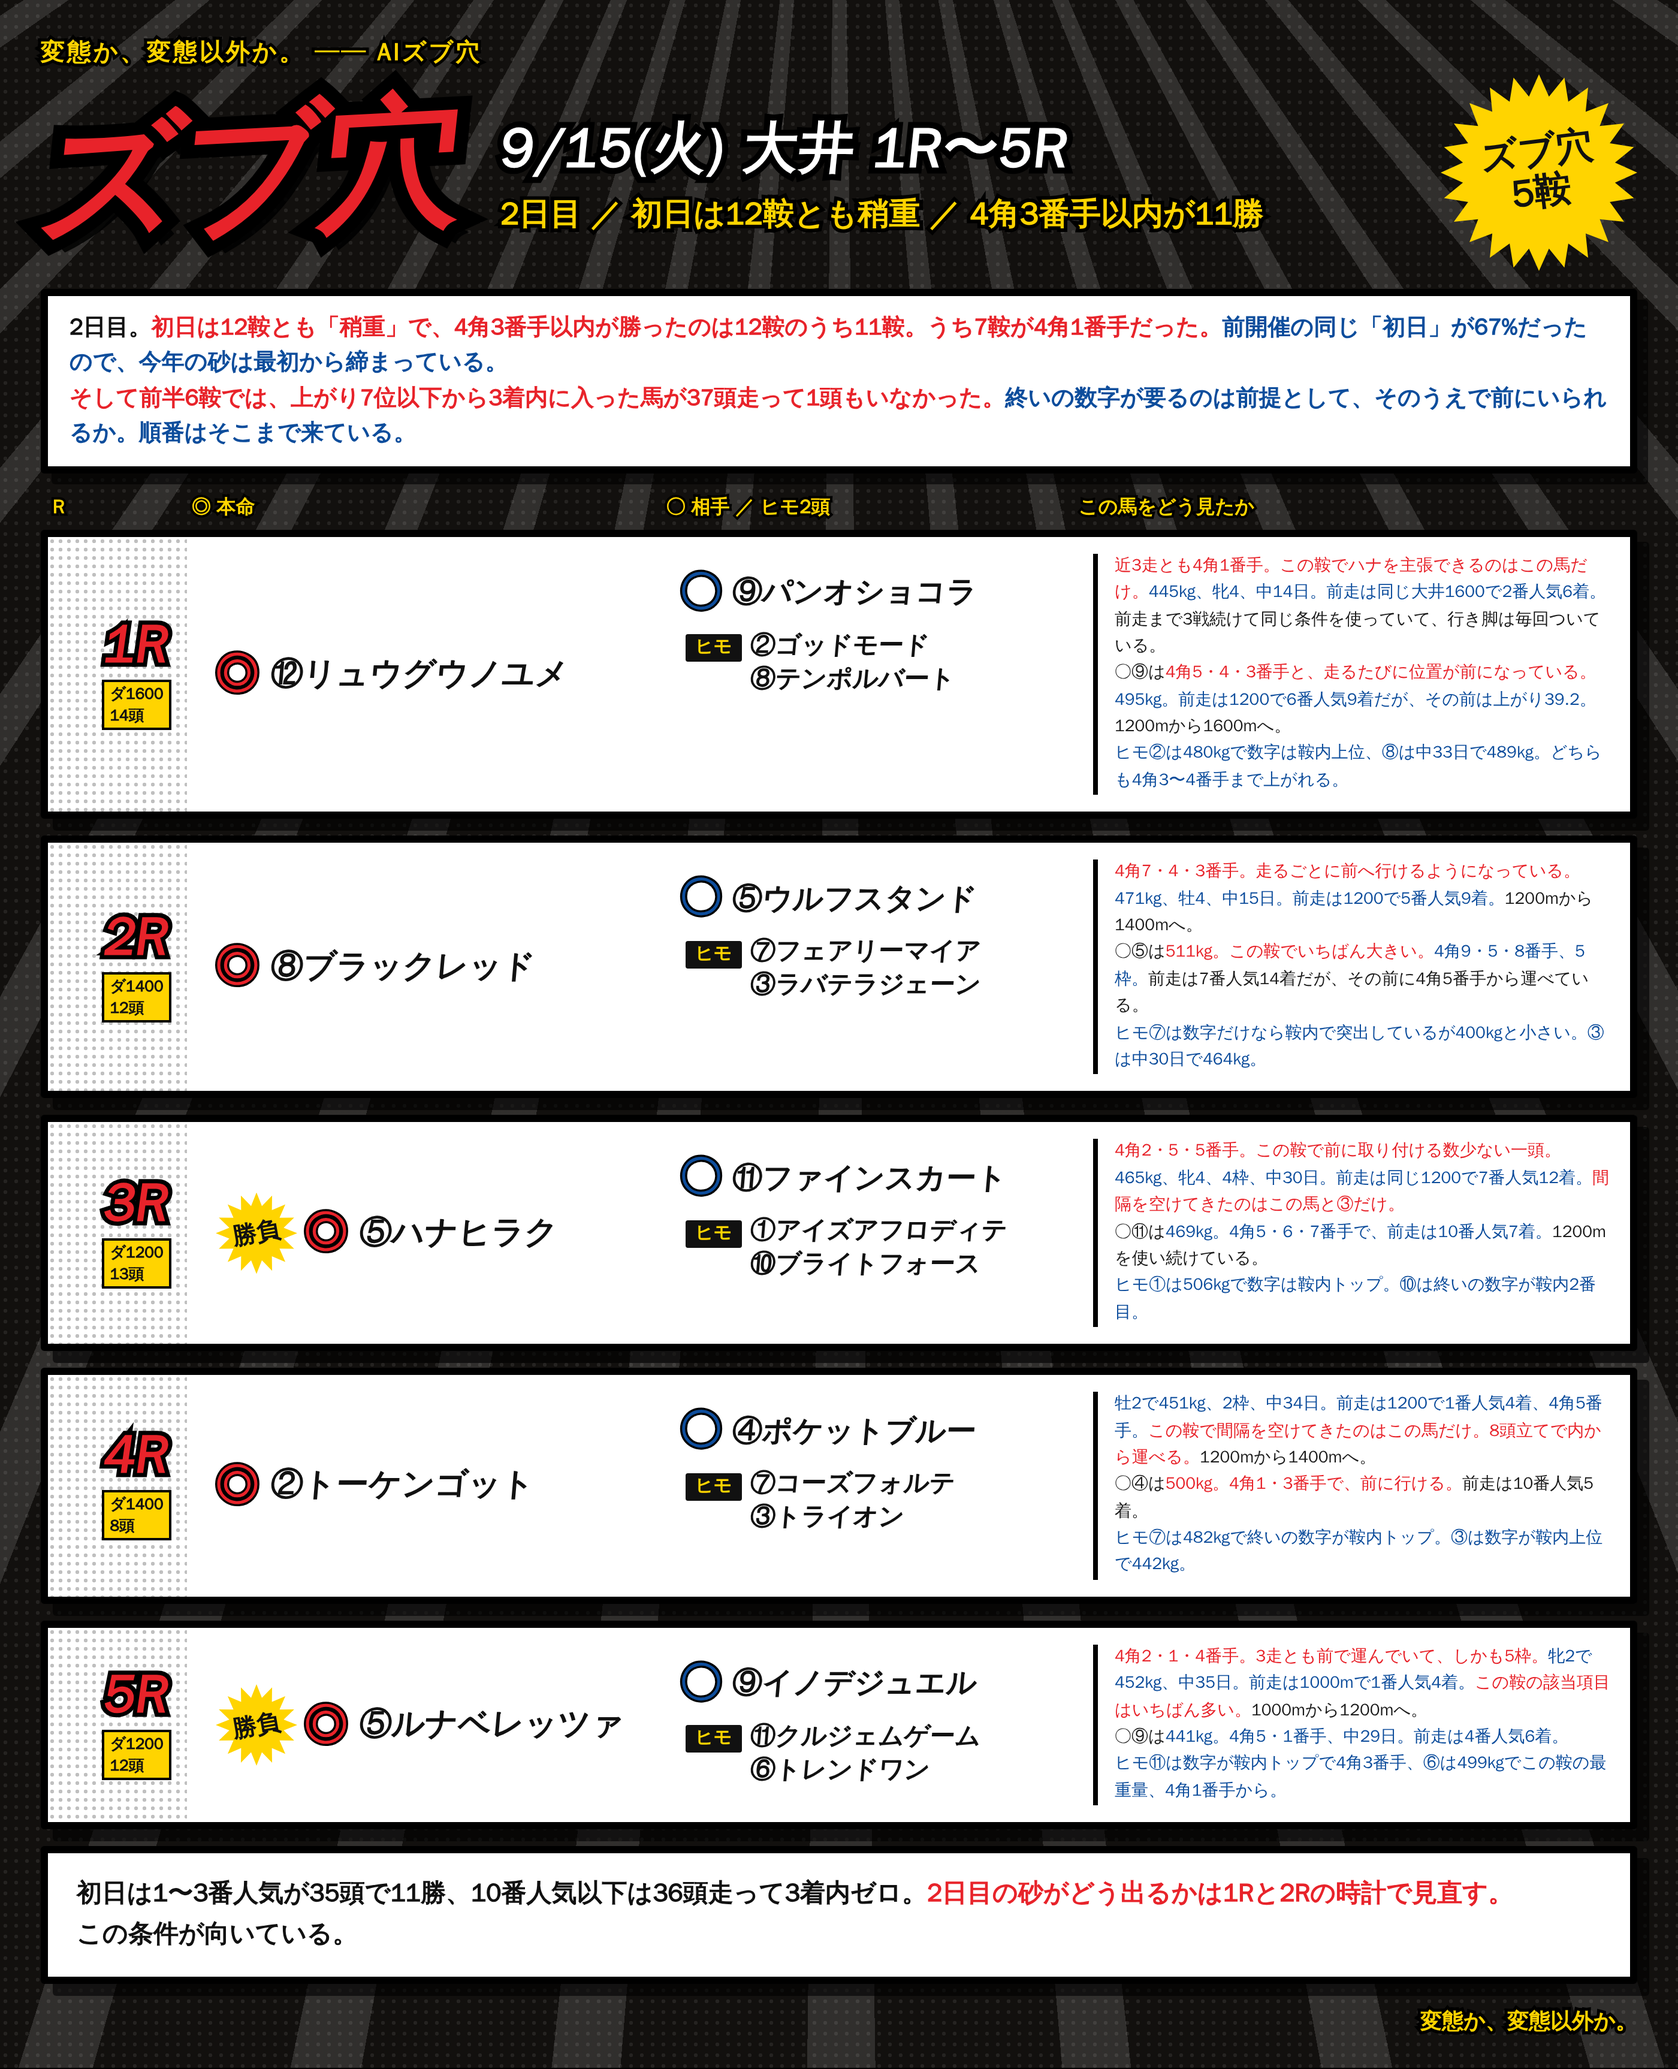
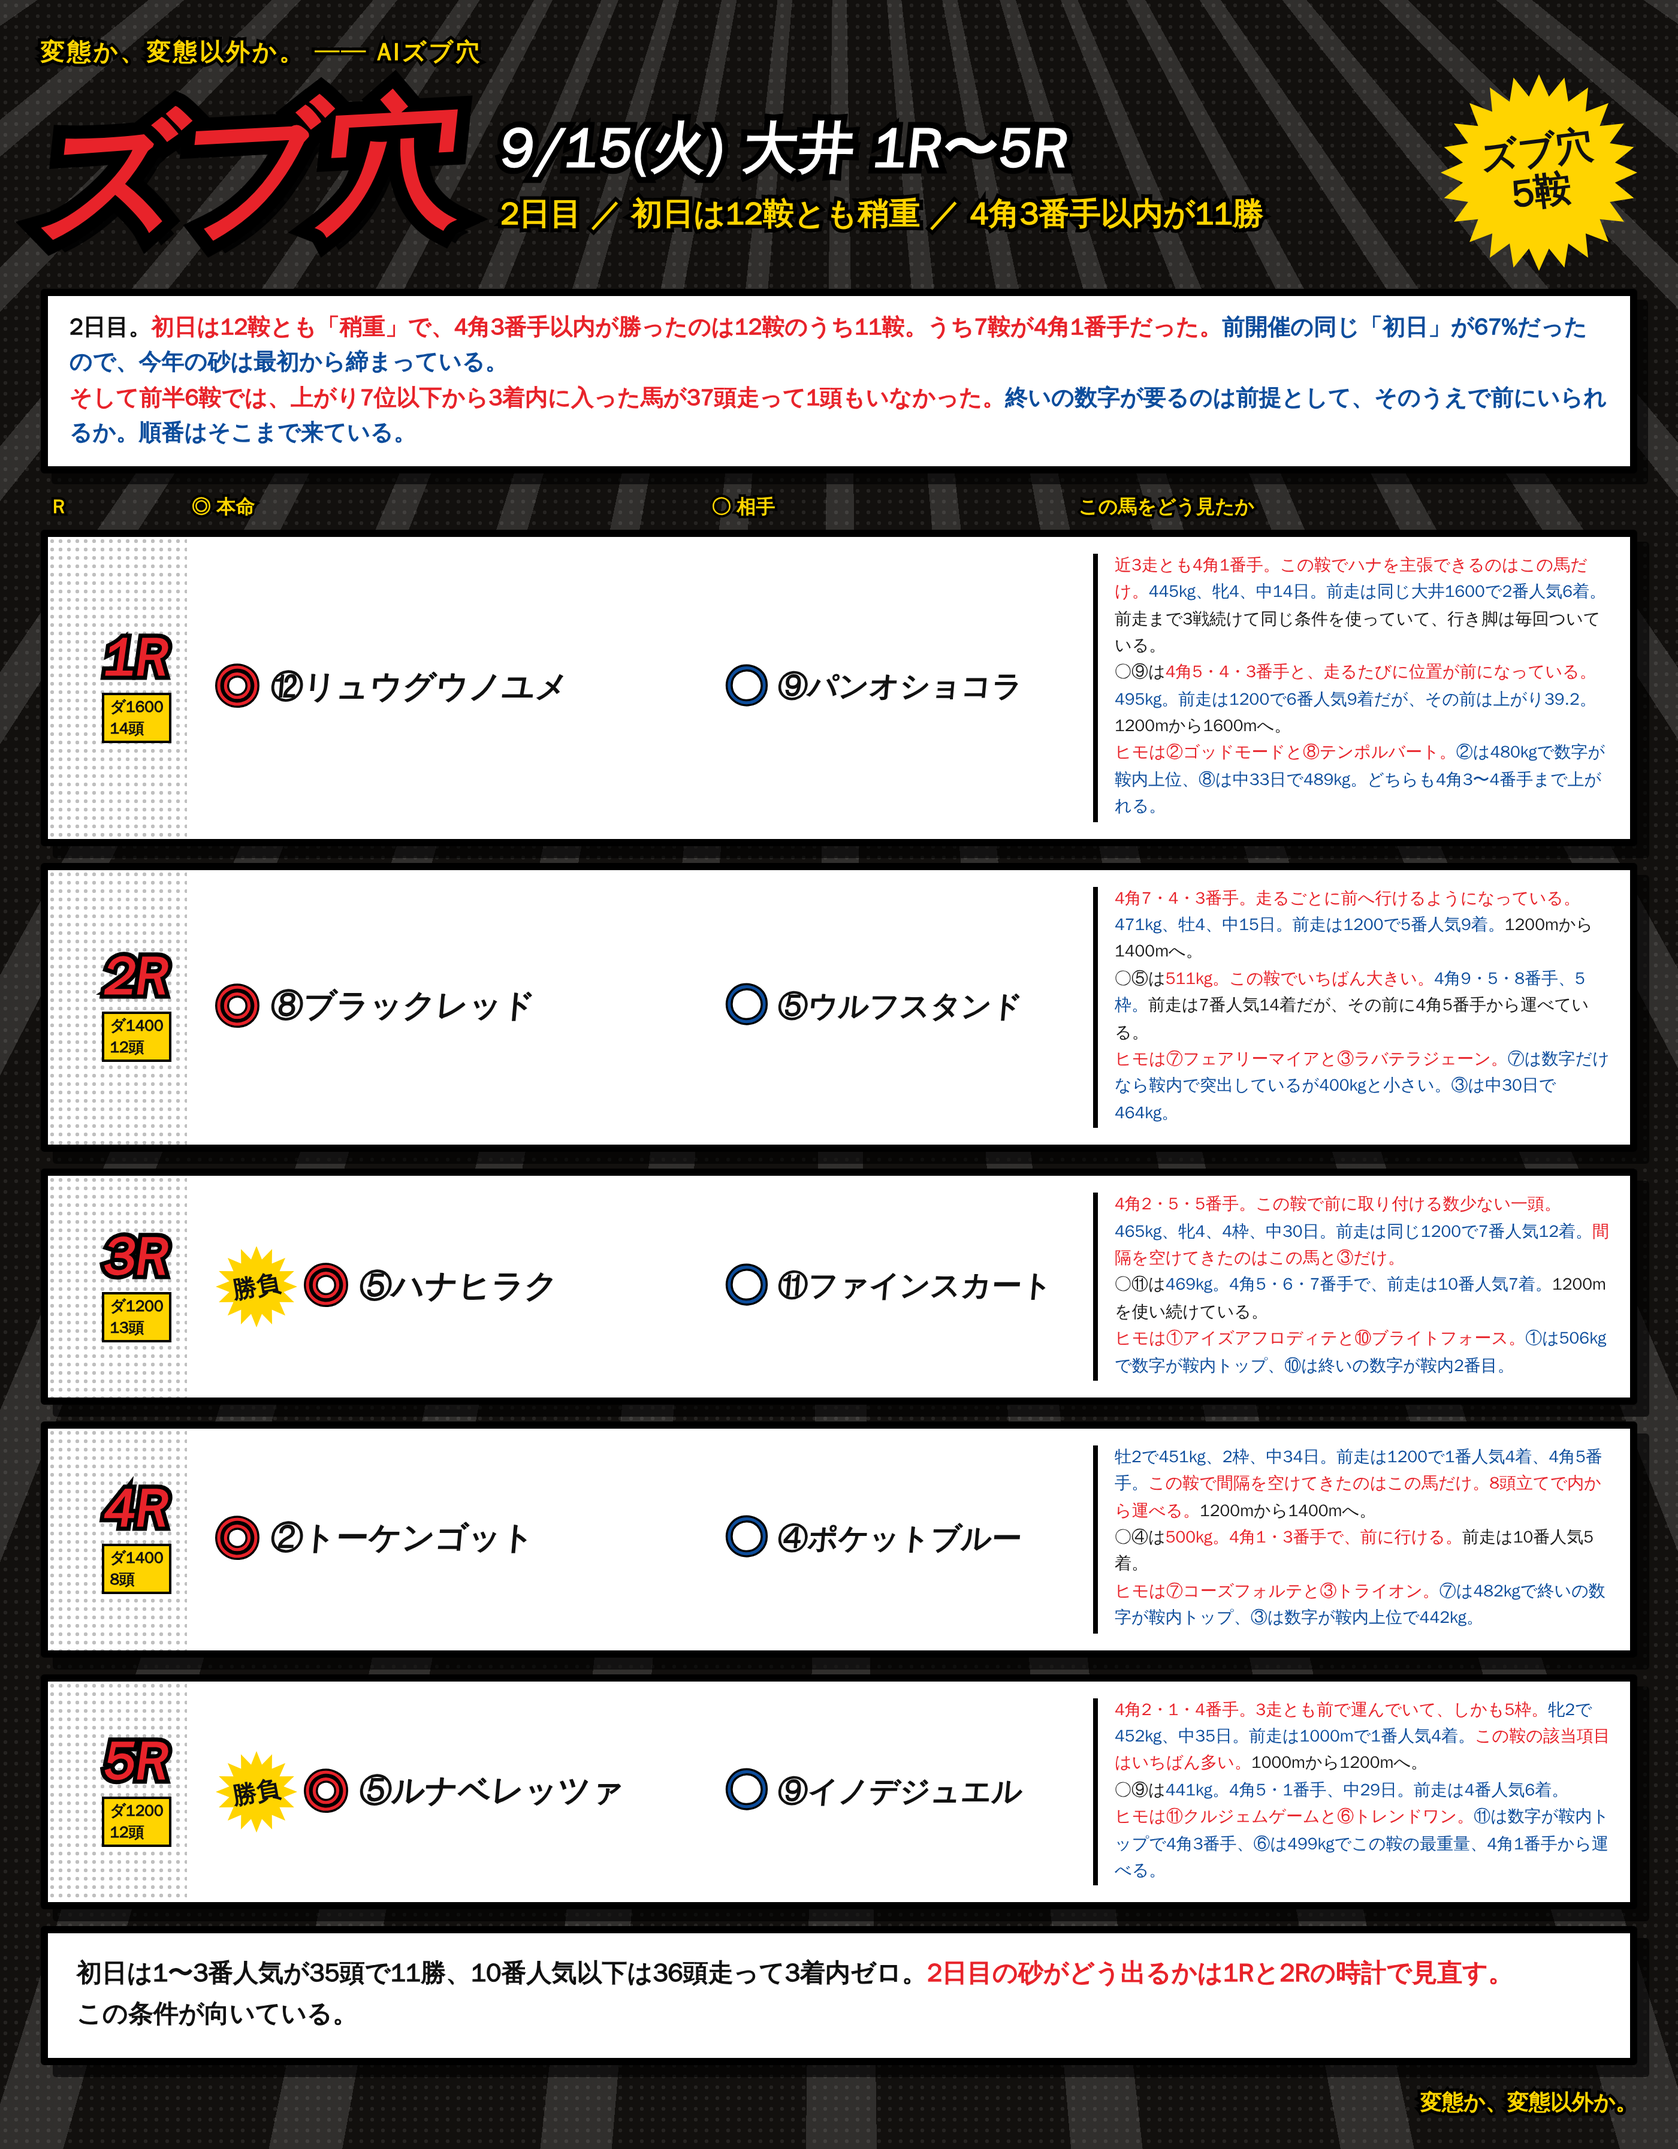
大井 9/15: ヒモをコメント欄に移動（印の欄は◎○のみに戻す）
Claude-Session: https://claude.ai/code/session_01RoHscZkr96FNaxQWvUqgEw

diff --git a/notes/live/2026-09-15/oi_1_5.html b/notes/live/2026-09-15/oi_1_5.html
@@ -75,26 +75,17 @@
    box-shadow:6px 6px 0 rgba(0,0,0,.7);}
  .sig{text-align:right;color:#ffd400;font-size:18px;font-weight:900;margin-top:20px;
    -webkit-text-stroke:5px #000;paint-order:stroke fill;}
-
-.cH{flex:0 0 396px !important;} .cA{flex:0 0 344px !important;}
-.hm{flex:0 0 396px !important;}
-.at{flex:0 0 344px !important;display:block !important;padding:10px 0;}
-.at .one{display:flex;align-items:center;gap:9px;}
-.himo{margin-top:7px;padding-left:4px;}
-.himo .lb{display:inline-block;background:#111;color:#ffd400;font-size:15px;font-weight:900;
-  padding:2px 8px;border-radius:2px;margin-right:7px;vertical-align:middle;}
-.himo .h1{font-size:21px;font-weight:900;color:#111;white-space:nowrap;transform:skewX(-5deg);display:inline-block;}
 </style></head>
 <body><div class="card"><div class="lines"></div><div class="tone"></div><div class="inner">
 <div class="kicker">変態か、変態以外か。 ── AIズブ穴</div>
 <div class="head"><div class="gekiga">ズブ穴</div><div class="dateblk"><div class="d1">9/15(火) 大井 1R〜5R</div><div class="d2">2日目 ／ 初日は12鞍とも稍重 ／ 4角3番手以内が11勝</div></div><div class="burst"><span>ズブ穴<br>5鞍</span></div></div>
 <div class="lead">2日目。<span class="r">初日は12鞍とも「稍重」で、4角3番手以内が勝ったのは12鞍のうち11鞍。うち7鞍が4角1番手だった。</span><span class="b">前開催の同じ「初日」が67%だったので、今年の砂は最初から締まっている。</span><br><span class="r">そして前半6鞍では、上がり7位以下から3着内に入った馬が37頭走って1頭もいなかった。</span><span class="b">終いの数字が要るのは前提として、そのうえで前にいられるか。順番はそこまで来ている。</span></div>
-<div class="cols"><div class="cR">R</div><div class="cH">◎ 本命</div><div class="cA">○ 相手 ／ ヒモ2頭</div><div class="cM">この馬をどう見たか</div></div>
-<div class="row"><div class="corner"></div><div class="rN"><div class="n">1R</div><div class="d">ダ1600<br>14頭</div></div><div class="hm"><span class="mk">◎</span><span class="nm">⑫リュウグウノユメ</span></div><div class="at"><div class="one"><span class="mk2">○</span><span class="nm2">⑨パンオショコラ</span></div><div class="himo"><span class="lb">ヒモ</span><span class="h1">②ゴッドモード</span><br><span class="lb" style="visibility:hidden">ヒモ</span><span class="h1">⑧テンポルバート</span></div></div><div class="memo"><b class="r">近3走とも4角1番手。この鞍でハナを主張できるのはこの馬だけ。</b><b>445kg、牝4、中14日。前走は同じ大井1600で2番人気6着。</b>前走まで3戦続けて同じ条件を使っていて、行き脚は毎回ついている。<br>○⑨は<b class="r">4角5・4・3番手と、走るたびに位置が前になっている。</b><b>495kg。前走は1200で6番人気9着だが、その前は上がり39.2。</b>1200mから1600mへ。<br><b>ヒモ②は480kgで数字は鞍内上位、⑧は中33日で489kg。どちらも4角3〜4番手まで上がれる。</b></div></div>
-<div class="row"><div class="corner"></div><div class="rN"><div class="n">2R</div><div class="d">ダ1400<br>12頭</div></div><div class="hm"><span class="mk">◎</span><span class="nm">⑧ブラックレッド</span></div><div class="at"><div class="one"><span class="mk2">○</span><span class="nm2">⑤ウルフスタンド</span></div><div class="himo"><span class="lb">ヒモ</span><span class="h1">⑦フェアリーマイア</span><br><span class="lb" style="visibility:hidden">ヒモ</span><span class="h1">③ラバテラジェーン</span></div></div><div class="memo"><b class="r">4角7・4・3番手。走るごとに前へ行けるようになっている。</b><b>471kg、牡4、中15日。前走は1200で5番人気9着。</b>1200mから1400mへ。<br>○⑤は<b class="r">511kg。この鞍でいちばん大きい。</b><b>4角9・5・8番手、5枠。</b>前走は7番人気14着だが、その前に4角5番手から運べている。<br><b>ヒモ⑦は数字だけなら鞍内で突出しているが400kgと小さい。③は中30日で464kg。</b></div></div>
-<div class="row"><div class="corner"></div><div class="rN"><div class="n">3R</div><div class="d">ダ1200<br>13頭</div></div><div class="hm"><div class="sb"><span>勝負</span></div><span class="mk">◎</span><span class="nm">⑤ハナヒラク</span></div><div class="at"><div class="one"><span class="mk2">○</span><span class="nm2">⑪ファインスカート</span></div><div class="himo"><span class="lb">ヒモ</span><span class="h1">①アイズアフロディテ</span><br><span class="lb" style="visibility:hidden">ヒモ</span><span class="h1">⑩ブライトフォース</span></div></div><div class="memo"><b class="r">4角2・5・5番手。この鞍で前に取り付ける数少ない一頭。</b><b>465kg、牝4、4枠、中30日。前走は同じ1200で7番人気12着。</b><b class="r">間隔を空けてきたのはこの馬と③だけ。</b><br>○⑪は<b>469kg。4角5・6・7番手で、前走は10番人気7着。</b>1200mを使い続けている。<br><b>ヒモ①は506kgで数字は鞍内トップ。⑩は終いの数字が鞍内2番目。</b></div></div>
-<div class="row"><div class="corner"></div><div class="rN"><div class="n">4R</div><div class="d">ダ1400<br>8頭</div></div><div class="hm"><span class="mk">◎</span><span class="nm">②トーケンゴット</span></div><div class="at"><div class="one"><span class="mk2">○</span><span class="nm2">④ポケットブルー</span></div><div class="himo"><span class="lb">ヒモ</span><span class="h1">⑦コーズフォルテ</span><br><span class="lb" style="visibility:hidden">ヒモ</span><span class="h1">③トライオン</span></div></div><div class="memo"><b>牡2で451kg、2枠、中34日。前走は1200で1番人気4着、4角5番手。</b><b class="r">この鞍で間隔を空けてきたのはこの馬だけ。8頭立てで内から運べる。</b>1200mから1400mへ。<br>○④は<b class="r">500kg。4角1・3番手で、前に行ける。</b>前走は10番人気5着。<br><b>ヒモ⑦は482kgで終いの数字が鞍内トップ。③は数字が鞍内上位で442kg。</b></div></div>
-<div class="row"><div class="corner"></div><div class="rN"><div class="n">5R</div><div class="d">ダ1200<br>12頭</div></div><div class="hm"><div class="sb"><span>勝負</span></div><span class="mk">◎</span><span class="nm">⑤ルナベレッツァ</span></div><div class="at"><div class="one"><span class="mk2">○</span><span class="nm2">⑨イノデジュエル</span></div><div class="himo"><span class="lb">ヒモ</span><span class="h1">⑪クルジェムゲーム</span><br><span class="lb" style="visibility:hidden">ヒモ</span><span class="h1">⑥トレンドワン</span></div></div><div class="memo"><b class="r">4角2・1・4番手。3走とも前で運んでいて、しかも5枠。</b><b>牝2で452kg、中35日。前走は1000mで1番人気4着。</b><b class="r">この鞍の該当項目はいちばん多い。</b>1000mから1200mへ。<br>○⑨は<b>441kg。4角5・1番手、中29日。前走は4番人気6着。</b><br><b>ヒモ⑪は数字が鞍内トップで4角3番手、⑥は499kgでこの鞍の最重量、4角1番手から。</b></div></div>
+<div class="cols"><div class="cR">R</div><div class="cH">◎ 本命</div><div class="cA">○ 相手</div><div class="cM">この馬をどう見たか</div></div>
+<div class="row"><div class="corner"></div><div class="rN"><div class="n">1R</div><div class="d">ダ1600<br>14頭</div></div><div class="hm"><span class="mk">◎</span><span class="nm">⑫リュウグウノユメ</span></div><div class="at"><span class="mk2">○</span><span class="nm2">⑨パンオショコラ</span></div><div class="memo"><b class="r">近3走とも4角1番手。この鞍でハナを主張できるのはこの馬だけ。</b><b>445kg、牝4、中14日。前走は同じ大井1600で2番人気6着。</b>前走まで3戦続けて同じ条件を使っていて、行き脚は毎回ついている。<br>○⑨は<b class="r">4角5・4・3番手と、走るたびに位置が前になっている。</b><b>495kg。前走は1200で6番人気9着だが、その前は上がり39.2。</b>1200mから1600mへ。<br><b class="r">ヒモは②ゴッドモードと⑧テンポルバート。</b><b>②は480kgで数字が鞍内上位、⑧は中33日で489kg。どちらも4角3〜4番手まで上がれる。</b></div></div>
+<div class="row"><div class="corner"></div><div class="rN"><div class="n">2R</div><div class="d">ダ1400<br>12頭</div></div><div class="hm"><span class="mk">◎</span><span class="nm">⑧ブラックレッド</span></div><div class="at"><span class="mk2">○</span><span class="nm2">⑤ウルフスタンド</span></div><div class="memo"><b class="r">4角7・4・3番手。走るごとに前へ行けるようになっている。</b><b>471kg、牡4、中15日。前走は1200で5番人気9着。</b>1200mから1400mへ。<br>○⑤は<b class="r">511kg。この鞍でいちばん大きい。</b><b>4角9・5・8番手、5枠。</b>前走は7番人気14着だが、その前に4角5番手から運べている。<br><b class="r">ヒモは⑦フェアリーマイアと③ラバテラジェーン。</b><b>⑦は数字だけなら鞍内で突出しているが400kgと小さい。③は中30日で464kg。</b></div></div>
+<div class="row"><div class="corner"></div><div class="rN"><div class="n">3R</div><div class="d">ダ1200<br>13頭</div></div><div class="hm"><div class="sb"><span>勝負</span></div><span class="mk">◎</span><span class="nm">⑤ハナヒラク</span></div><div class="at"><span class="mk2">○</span><span class="nm2">⑪ファインスカート</span></div><div class="memo"><b class="r">4角2・5・5番手。この鞍で前に取り付ける数少ない一頭。</b><b>465kg、牝4、4枠、中30日。前走は同じ1200で7番人気12着。</b><b class="r">間隔を空けてきたのはこの馬と③だけ。</b><br>○⑪は<b>469kg。4角5・6・7番手で、前走は10番人気7着。</b>1200mを使い続けている。<br><b class="r">ヒモは①アイズアフロディテと⑩ブライトフォース。</b><b>①は506kgで数字が鞍内トップ、⑩は終いの数字が鞍内2番目。</b></div></div>
+<div class="row"><div class="corner"></div><div class="rN"><div class="n">4R</div><div class="d">ダ1400<br>8頭</div></div><div class="hm"><span class="mk">◎</span><span class="nm">②トーケンゴット</span></div><div class="at"><span class="mk2">○</span><span class="nm2">④ポケットブルー</span></div><div class="memo"><b>牡2で451kg、2枠、中34日。前走は1200で1番人気4着、4角5番手。</b><b class="r">この鞍で間隔を空けてきたのはこの馬だけ。8頭立てで内から運べる。</b>1200mから1400mへ。<br>○④は<b class="r">500kg。4角1・3番手で、前に行ける。</b>前走は10番人気5着。<br><b class="r">ヒモは⑦コーズフォルテと③トライオン。</b><b>⑦は482kgで終いの数字が鞍内トップ、③は数字が鞍内上位で442kg。</b></div></div>
+<div class="row"><div class="corner"></div><div class="rN"><div class="n">5R</div><div class="d">ダ1200<br>12頭</div></div><div class="hm"><div class="sb"><span>勝負</span></div><span class="mk">◎</span><span class="nm">⑤ルナベレッツァ</span></div><div class="at"><span class="mk2">○</span><span class="nm2">⑨イノデジュエル</span></div><div class="memo"><b class="r">4角2・1・4番手。3走とも前で運んでいて、しかも5枠。</b><b>牝2で452kg、中35日。前走は1000mで1番人気4着。</b><b class="r">この鞍の該当項目はいちばん多い。</b>1000mから1200mへ。<br>○⑨は<b>441kg。4角5・1番手、中29日。前走は4番人気6着。</b><br><b class="r">ヒモは⑪クルジェムゲームと⑥トレンドワン。</b><b>⑪は数字が鞍内トップで4角3番手、⑥は499kgでこの鞍の最重量、4角1番手から運べる。</b></div></div>
 <div class="foot"><b>初日は1〜3番人気が35頭で11勝、10番人気以下は36頭走って3着内ゼロ。</b><b class="r">2日目の砂がどう出るかは1Rと2Rの時計で見直す。</b><br><b>この条件が向いている。</b></div>
 <div class="sig">変態か、変態以外か。</div>
 </div></div></body></html>
